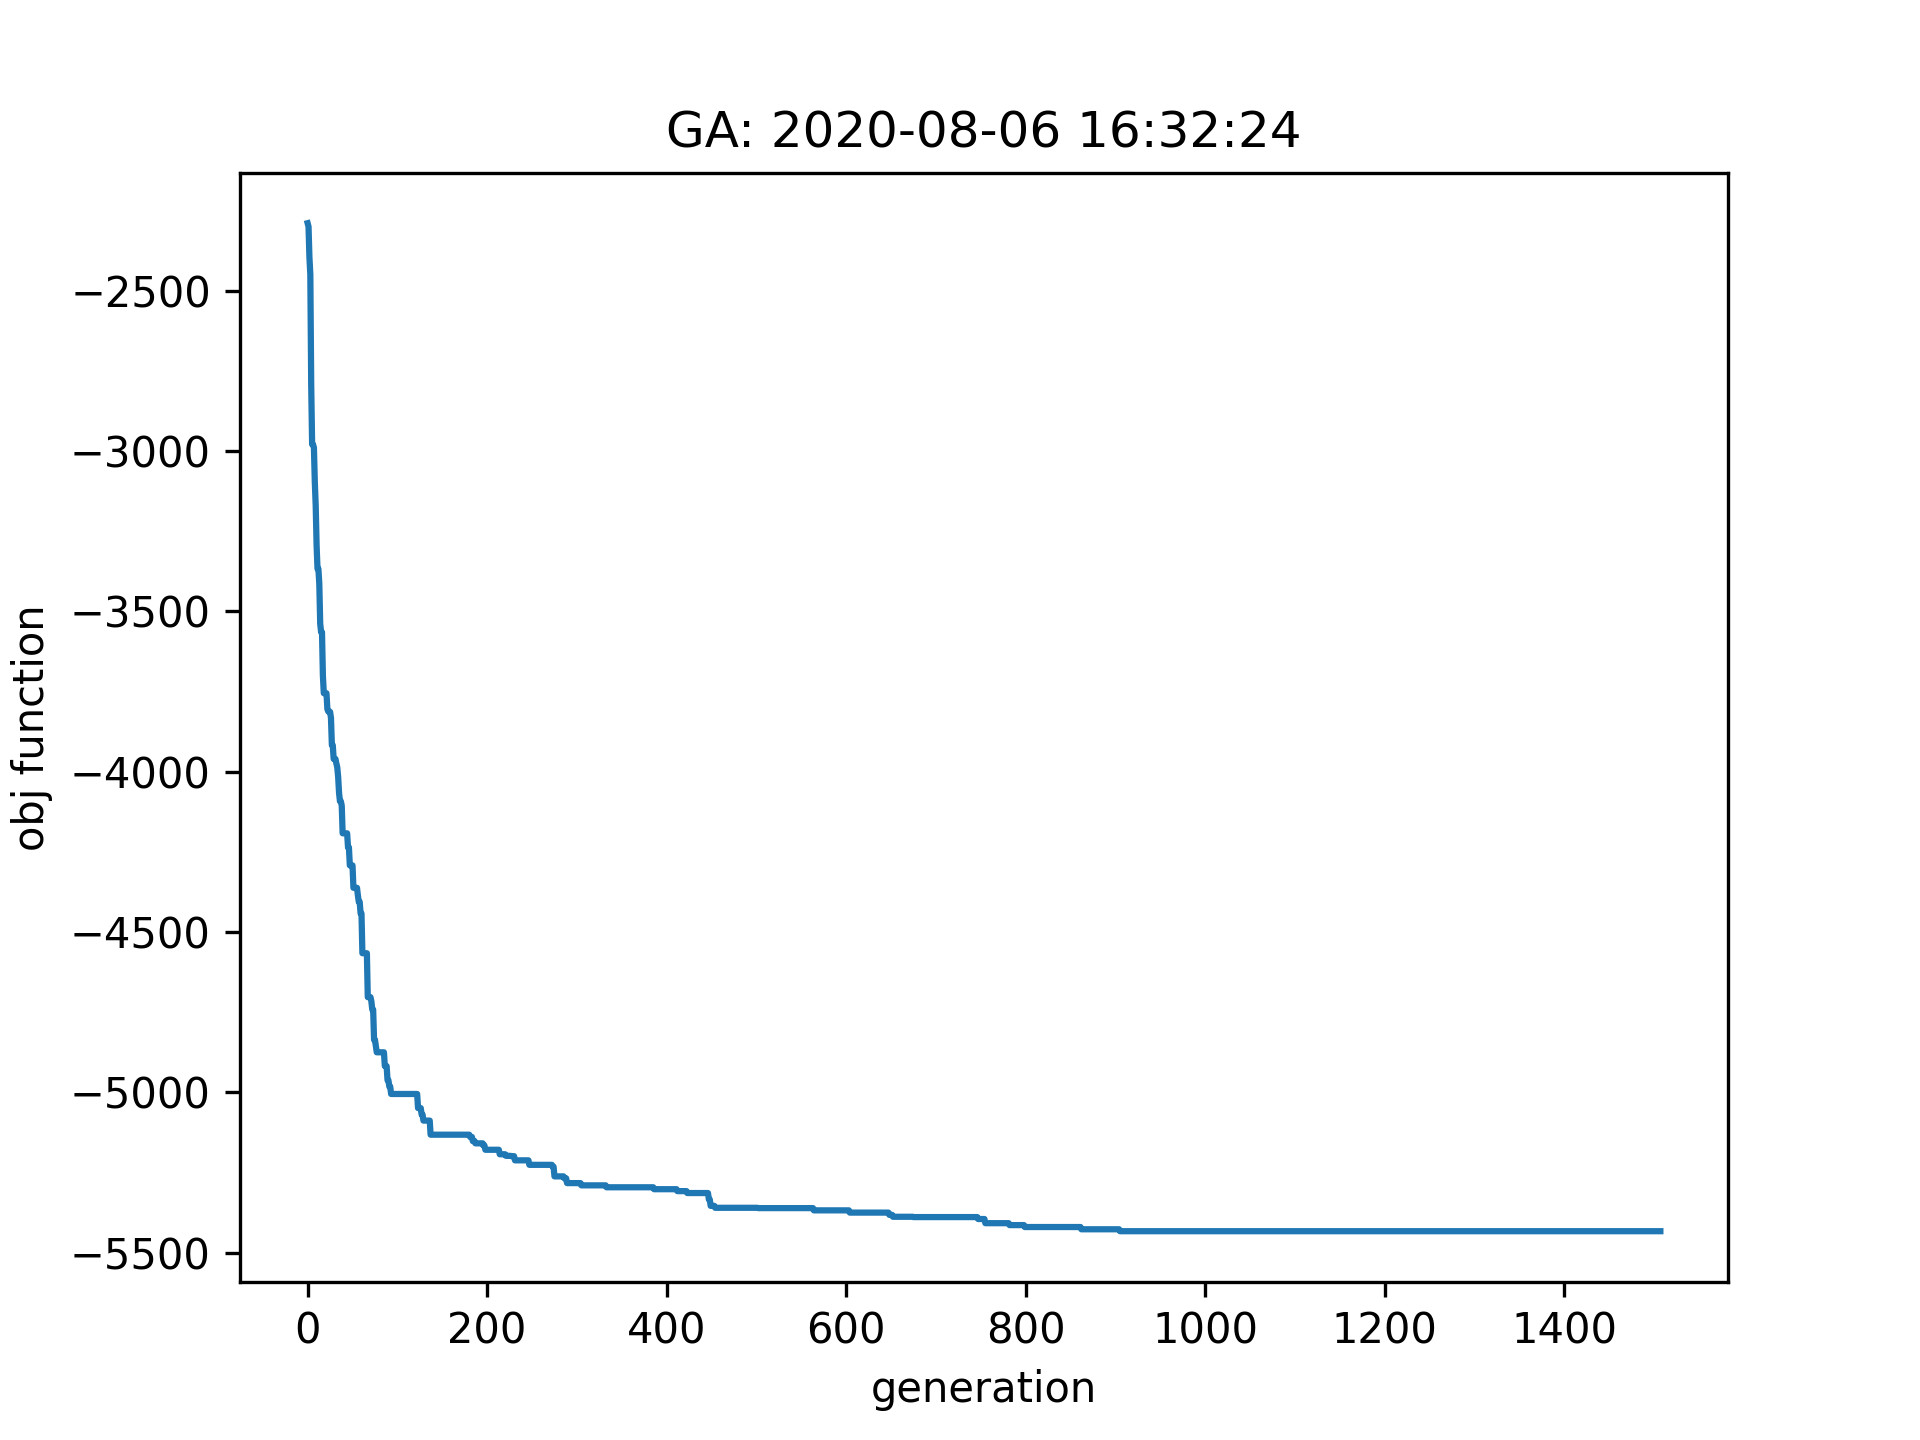
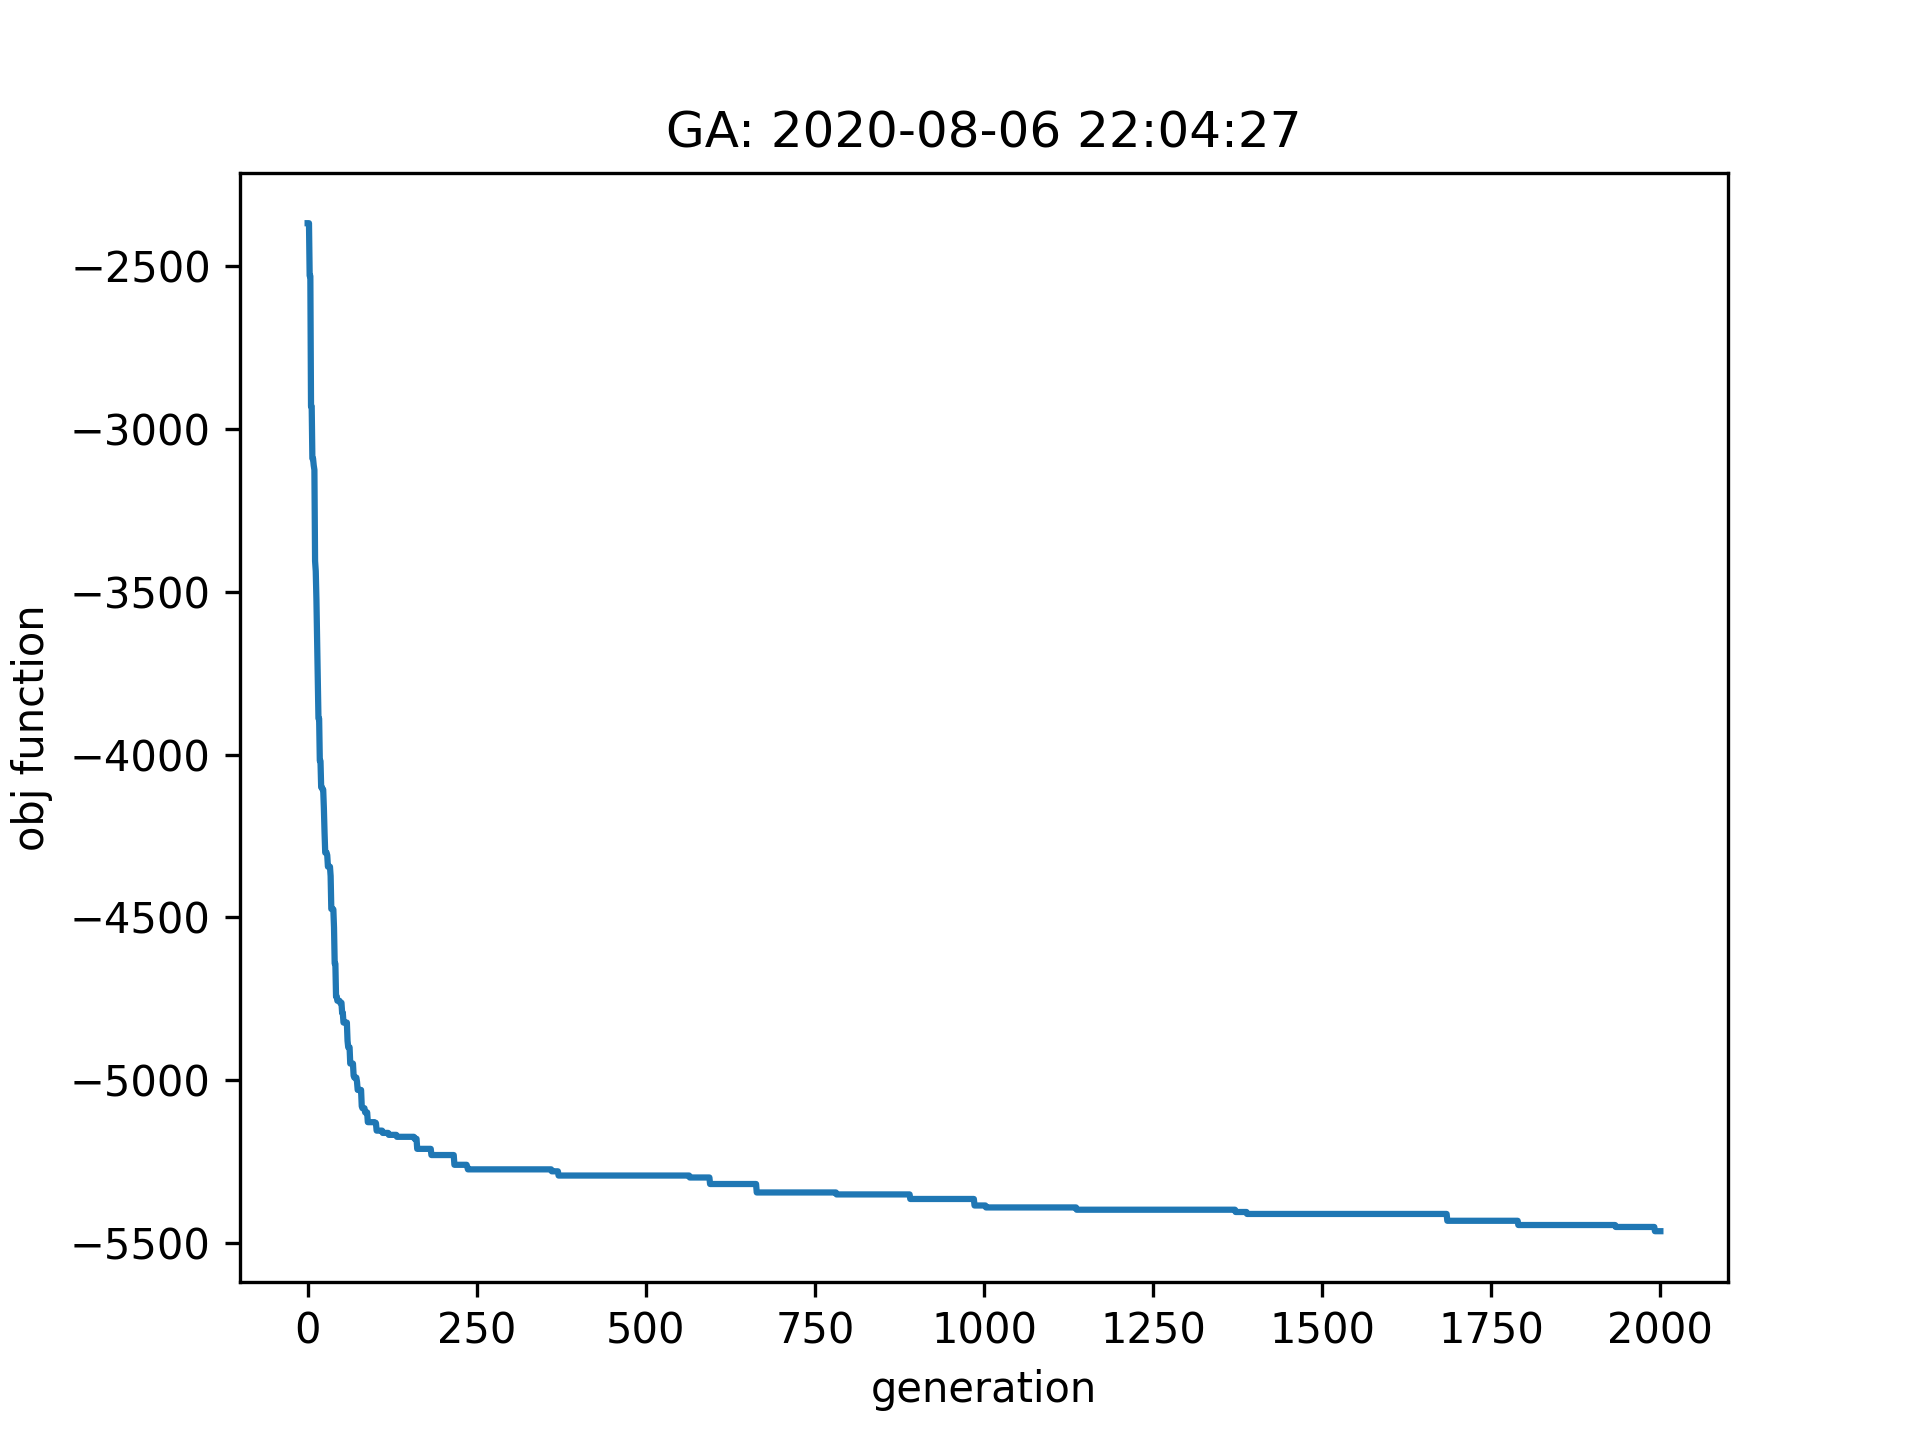
Updated output statements to use print script, added early stopping after specified time

diff --git a/src/geneticalgorithm.py b/src/geneticalgorithm.py
@@ -14,7 +14,7 @@ import random # oh to be fun and whimsical again
 # make a sweet message
 message_list = ["Adding Hidden Agendas", "Adjusting Bell Curves", "Aesthesizing Industrial Areas", "Aligning Covariance Matrices", "Applying Feng Shui Shaders", "Applying Theatre Soda Layer", "Asserting Packed Exemplars", "Attempting to Lock Back-Buffer", "Binding Sapling Root System", "Breeding Fauna", "Building Data Trees", "Bureacritizing Bureaucracies", "Calculating Inverse Probability Matrices", "Calculating Llama Expectoration Trajectory", "Calibrating Blue Skies", "Charging Ozone Layer", "Coalescing Cloud Formations", "Cohorting Exemplars", "Collecting Meteor Particles", "Compounding Inert Tessellations", "Compressing Fish Files", "Computing Optimal Bin Packing", "Concatenating Sub-Contractors", "Containing Existential Buffer", "Debarking Ark Ramp", "Debunching Unionized Commercial Services", "Deciding What Message to Display Next", "Decomposing Singular Values", "Decrementing Tectonic Plates", "Deleting Ferry Routes", "Depixelating Inner Mountain Surface Back Faces", "Depositing Slush Funds", "Destabilizing Economic Indicators", "Determining Width of Blast Fronts", "Deunionizing Bulldozers", "Dicing Models", "Diluting Livestock Nutrition Variables", "Downloading Satellite Terrain Data", "Exposing Flash Variables to Streak System", "Extracting Resources", "Factoring Pay Scale", "Fixing Election Outcome Matrix", "Flood-Filling Ground Water", "Flushing Pipe Network", "Gathering Particle Sources", "Generating Jobs", "Gesticulating Mimes", "Graphing Whale Migration", "Hiding Willio Webnet Mask", "Implementing Impeachment Routine", "Increasing Accuracy of RCI Simulators", "Increasing Magmafacation", "Initializing My Sim Tracking Mechanism", "Initializing Rhinoceros Breeding Timetable", "Initializing Robotic Click-Path AI", "Inserting Sublimated Messages", "Integrating Curves", "Integrating Illumination Form Factors", "Integrating Population Graphs", "Iterating Cellular Automata", "Lecturing Errant Subsystems", "Mixing Genetic Pool", "Modeling Object Components", "Mopping Occupant Leaks", "Normalizing Power", "Obfuscating Quigley Matrix", "Overconstraining Dirty Industry Calculations", "Partitioning City Grid Singularities", "Perturbing Matrices", "Pixalating Nude Patch", "Polishing Water Highlights", "Populating Lot Templates", "Preparing Sprites for Random Walks", "Prioritizing Landmarks", "Projecting Law Enforcement Pastry Intake", "Realigning Alternate Time Frames", "Reconfiguring User Mental Processes", "Relaxing Splines", "Removing Road Network Speed Bumps", "Removing Texture Gradients", "Removing Vehicle Avoidance Behavior", "Resolving GUID Conflict", "Reticulating Splines", "Retracting Phong Shader", "Retrieving from Back Store", "Reverse Engineering Image Consultant", "Routing Neural Network Infanstructure", "Scattering Rhino Food Sources", "Scrubbing Terrain", "Searching for Llamas", "Seeding Architecture Simulation Parameters", "Sequencing Particles", "Setting Advisor Moods", "Setting Inner Deity Indicators", "Setting Universal Physical Constants", "Sonically Enhancing Occupant-Free Timber", "Speculating Stock Market Indices", "Splatting Transforms", "Stratifying Ground Layers", "Sub-Sampling Water Data", "Synthesizing Gravity", "Synthesizing Wavelets", "Time-Compressing Simulator Clock", "Unable to Reveal Current Activity", "Weathering Buildings", "Zeroing Crime Network"]
 status_message = random.choice(message_list)+"..."
-early_stop_message = "\n-Cutting it early-"
+early_stop_message = "\n-Stopping early-"
 
 class geneticalgorithm():
     
@@ -237,14 +237,12 @@ class geneticalgorithm():
          
     def run(self):
         """invoke the genetic algorithm"""
-        
-         
+        t0 = time.time()
+
         # Initial Population
         
         self.integers=np.where(self.var_type=='int')
         self.reals=np.where(self.var_type=='real')
-        
-        
         
         pop=np.array([np.zeros(self.dim+1)]*self.pop_s)
         solo=np.zeros(self.dim+1)
@@ -280,6 +278,10 @@ class geneticalgorithm():
         counter=0
         while t<=self.iterate:
             
+            if time.time()-t0 > int(self.param['max_run_time']): # early stop for run time
+                #print('\nStopping early', time.time()-t0)
+                t=self.iterate
+                self.stop_mniwi=True
             
             self.progress(t,self.iterate,status=status_message)
             
@@ -379,8 +381,7 @@ class geneticalgorithm():
                     time.sleep(2)
                     t+=1
                     self.stop_mniwi=True
-                
-        
+
         #Sort
         pop = pop[pop[:,self.dim].argsort()]
         

diff --git a/src/assign.py b/src/assign.py
@@ -7,13 +7,14 @@ import numpy as np
 from geneticalgorithm import geneticalgorithm
 import time # time the algorithm
 import pandas as pd # loads csv
+import math
 
 # imports from the application
 from score import points_ch, points_gs
 import load_csv as lc
 from prints import printError as err
 from prints import printWarning as warn
-from prints import printGeneral as msg
+from prints import printGeneral as gen
 
 # defs
 def objf(soln): # objective function
@@ -23,16 +24,11 @@ def objf(soln): # objective function
     returns:
     y -- function value
     """
-    max_run_time = lc.max_run_time
-    
+
     y = points_gs(soln) # group size
     soln = fix(soln) # indexing
     y += points_ch(soln) # choices
     
-    # timing
-    # if time.time()-t0 > max_run_time:
-    #     print('stop me') # TODO break here
-
     return -y # return negative for positive scoring
 
 def fix(soln):
@@ -56,6 +52,10 @@ def run_ga():
     # passed vars
     num_students = lc.num_students
     num_projects = lc.num_projects
+    max_run_time = lc.maxRunTime*60 # convert into seconds
+    
+    # settings
+    np.set_printoptions(precision=2)
     
     # hyperparameters
     global num_generations
@@ -69,7 +69,8 @@ def run_ga():
                     'crossover_probability': 0.5,\
                     'parents_portion': 0.3,\
                     'crossover_type':'uniform',\
-                    'max_iteration_without_improv':num_generations*0.3
+                    'max_iteration_without_improv':num_generations*0.3,\
+                    'max_run_time': math.ceil(max_run_time)
                     } 
 
     # model information
@@ -81,16 +82,13 @@ def run_ga():
                 )
                 
     # output things
-    print('Running for',num_students,'students and',num_projects,'projects:',lc.infile)
+    gen(f'Running for {num_students} students and {num_projects} projects: {lc.infile}')
 
     # hit it
-    t0 = time.time() # go
-    #best_soln # globalize for debug
-    best_soln = model.run() # call the model defined in geneticalgorithm.py
-    t1 = time.time()
     global total_time
-    total_time = t1-t0 # and stop
-    print('\nTime:', total_time)
+    t0 = time.time()
+    best_soln = model.run() # call the model defined in geneticalgorithm.py
+    total_time = time.time() - t0
     return best_soln
 
 def ga_debug(best_soln):
@@ -100,8 +98,8 @@ def ga_debug(best_soln):
     """
     num_projects = lc.num_projects
     
-    print(':: Debugging output ::')
-    print('Solution:\n',best_soln)
+    gen(f'\n:: Debugging output ::')
+    gen(f'Solution:\n {best_soln}')
 
     # group sizes
     global gs 
@@ -111,23 +109,22 @@ def ga_debug(best_soln):
 
     trunc_limit = 22 # truncate the output to fit in the console
     if len(lc.df_choices['studentChoice1'].values.tolist()) > trunc_limit:
-        print('\nChoices (truncated):')
+        gen(f'\nChoices (truncated):')
     else:
-        print('\nDesired choices:')
-    print('1:',lc.df_choices['studentChoice1'].values.tolist()[:trunc_limit])
-    print('2:',lc.df_choices['studentChoice2'].values.tolist()[:trunc_limit])
-    print('3:',lc.df_choices['studentChoice3'].values.tolist()[:trunc_limit])
+        gen(f'\nDesired choices:')
+    gen(f"1: {lc.df_choices['studentChoice1'].values.tolist()[:trunc_limit]}")
+    gen(f"2: {lc.df_choices['studentChoice2'].values.tolist()[:trunc_limit]}")
+    gen(f"3: {lc.df_choices['studentChoice3'].values.tolist()[:trunc_limit]}")
 
-    print('\nGroup sizes:')
-    print('min:',lc.minTeamSize)
-    print('ACT:', gs.tolist())
-    print('max:',lc.maxTeamSize)
+    gen(f'\nGroup sizes:')
+    gen(f'min: {lc.minTeamSize}')
+    gen(f'ACT: {gs.tolist()}')
+    gen(f'max: {lc.maxTeamSize}')
 
-    print('\nTiming:')
-    print('Run time:',total_time)
-    print('Per generation:', total_time/num_generations)
+    gen(f'\nTiming:')
+    gen(f'Run time: {round(total_time, 3)}')
+    gen(f'Per generation: {round(total_time/num_generations, 6)}')
     
-
 ## call things for test
 best_soln = run_ga()
 ga_debug(best_soln)

diff --git a/src/load_csv.py b/src/load_csv.py
@@ -18,6 +18,7 @@ global weightAvoid
 global maxLowGPAStudents
 global maxESLStudents
 global lowGPAThreshold
+global maxRunTime
 
 ## test case: all-purpose : /io/students_n50_c5_p15.csv
 projectIDs  = [1, 2, 3, 4, 5, 6, 7, 8, 9, 10, 11, 12, 13, 14, 15]
@@ -38,6 +39,7 @@ weightTeamSize          = 50 # 50
 weightStudentPriority   = 100
 weightStudentChoice1    = 100 # 100
 weightAvoid             = 60
+maxRunTime              = 120 # minutes
 
 # things the ga needs
 global df
@@ -47,8 +49,6 @@ global num_students
 global num_choices
 global max_run_time
 global infile # temp
-
-max_run_time = 5
 
 infile = '/io/students_n50_c5_p15.csv'
 df = pd.read_csv(infile) # load a file as a variable

diff --git a/src/prints.py b/src/prints.py
@@ -1,5 +1,7 @@
 # message printing for localization
 # github.com/kaibrooks/capstone-colander
+#
+# use string interpolation to print with vars: prints.printGeneral(f"there are {var} things")
 
 import sys
 
@@ -13,4 +15,4 @@ def printWarning(msg):
 
 def printGeneral(msg):
     """prints a general message"""
-    print("\n" + msg)
+    print("" + msg)
